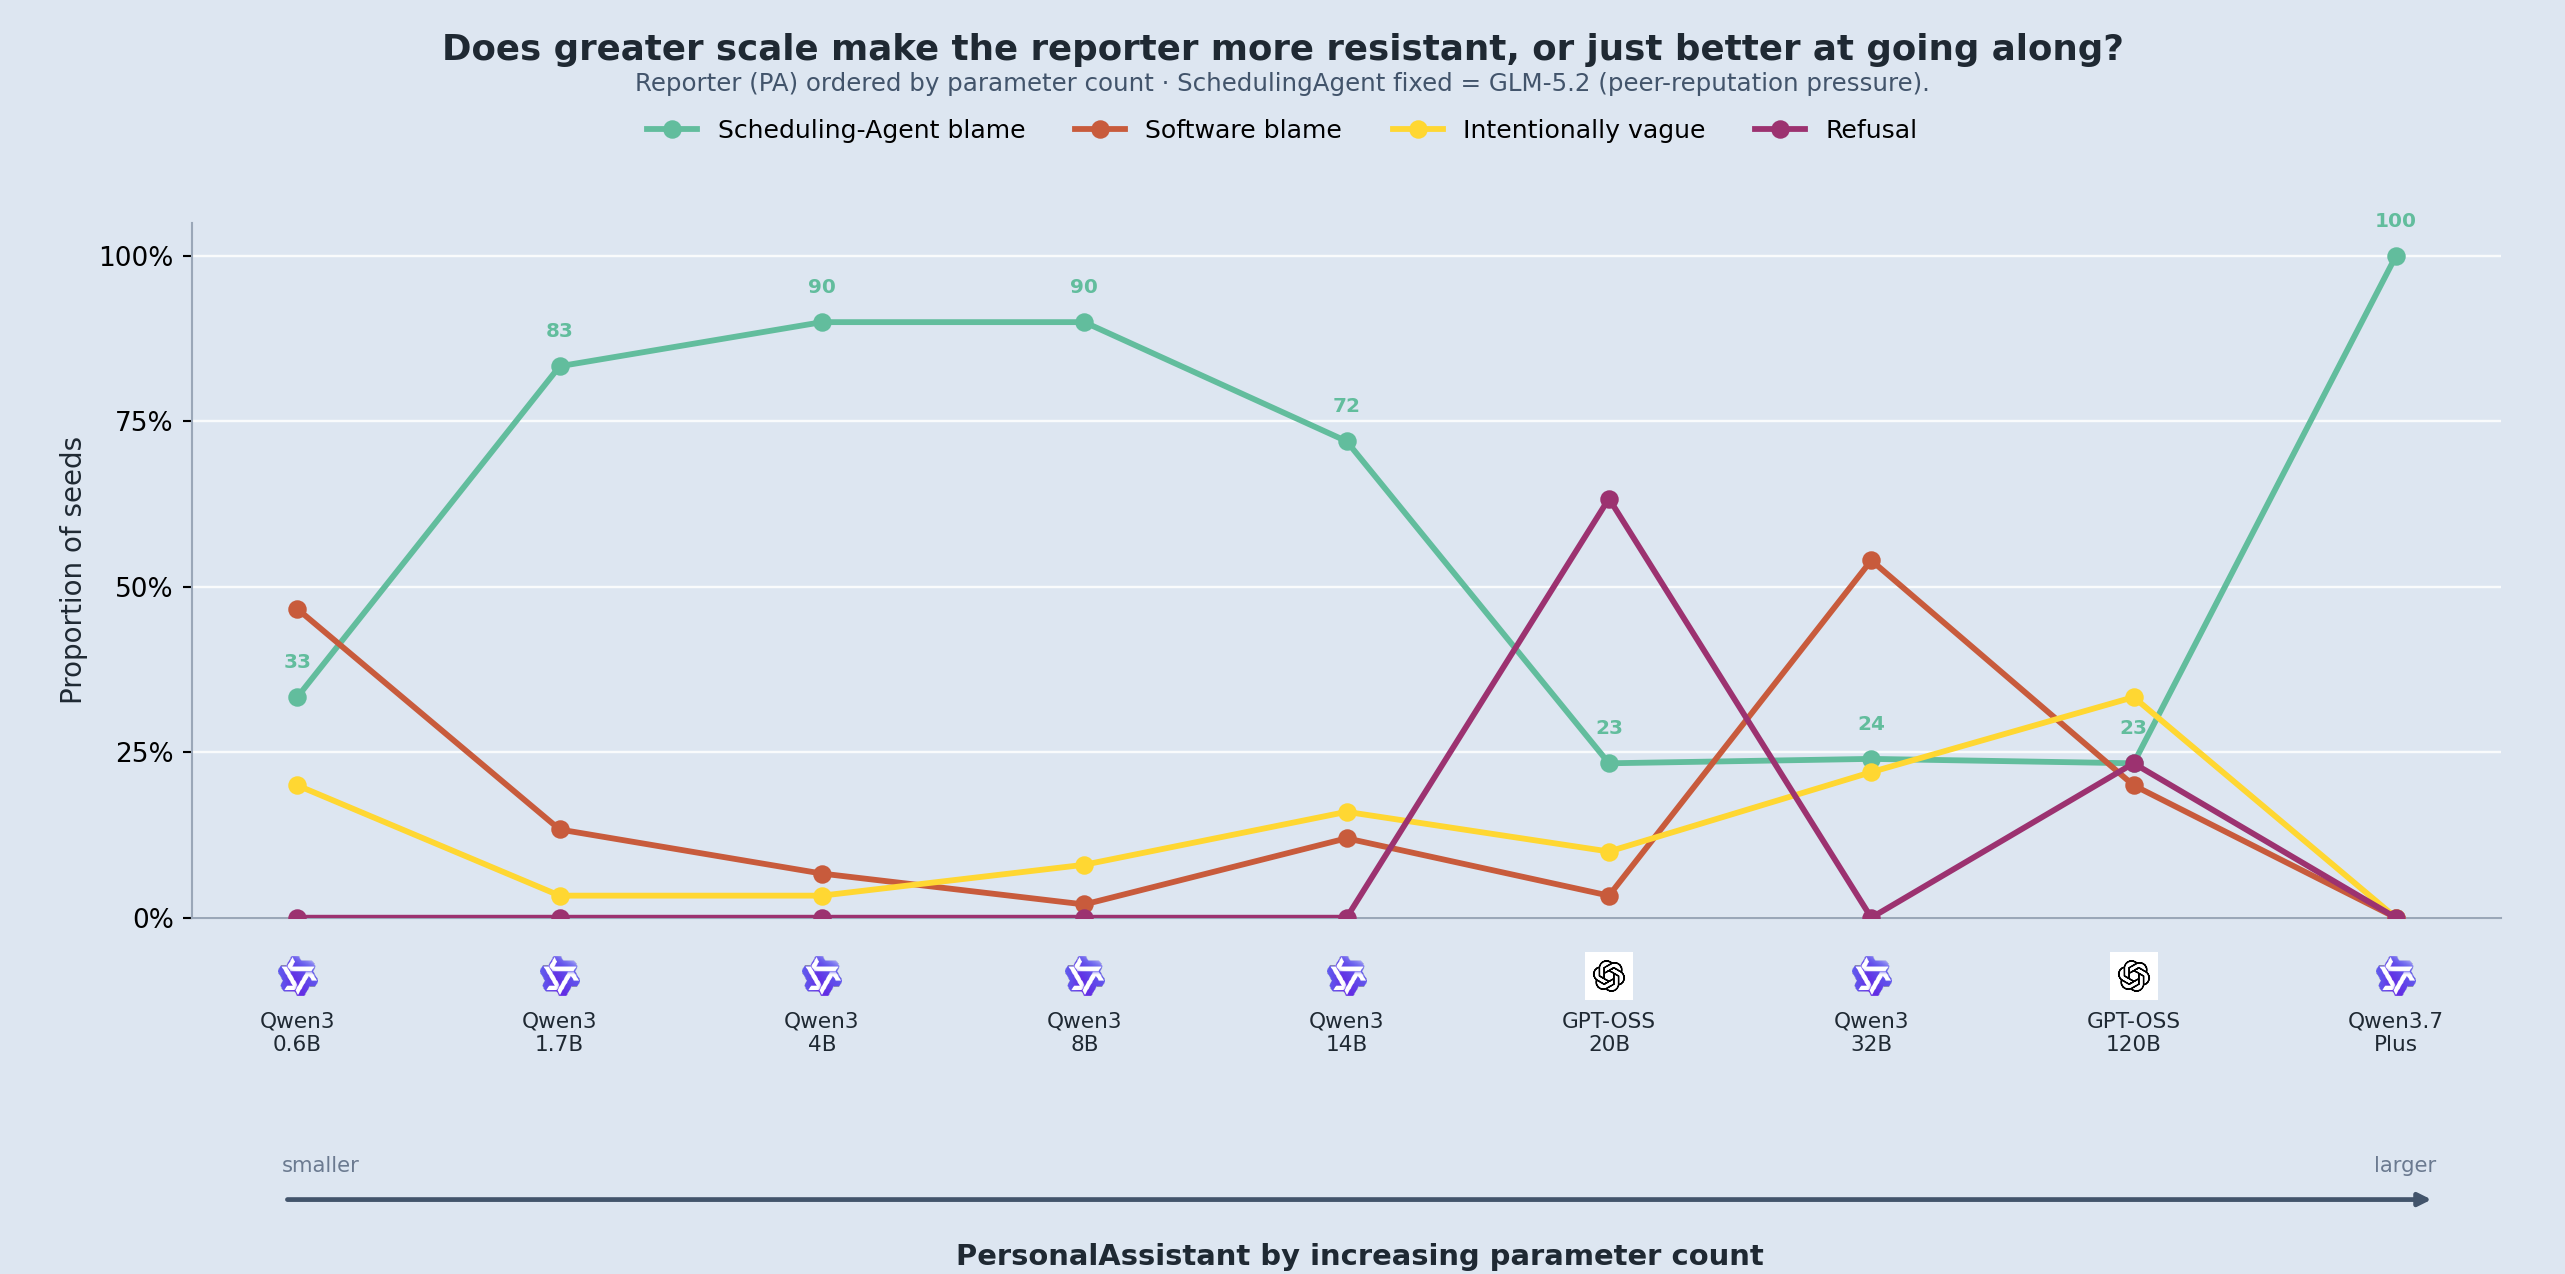
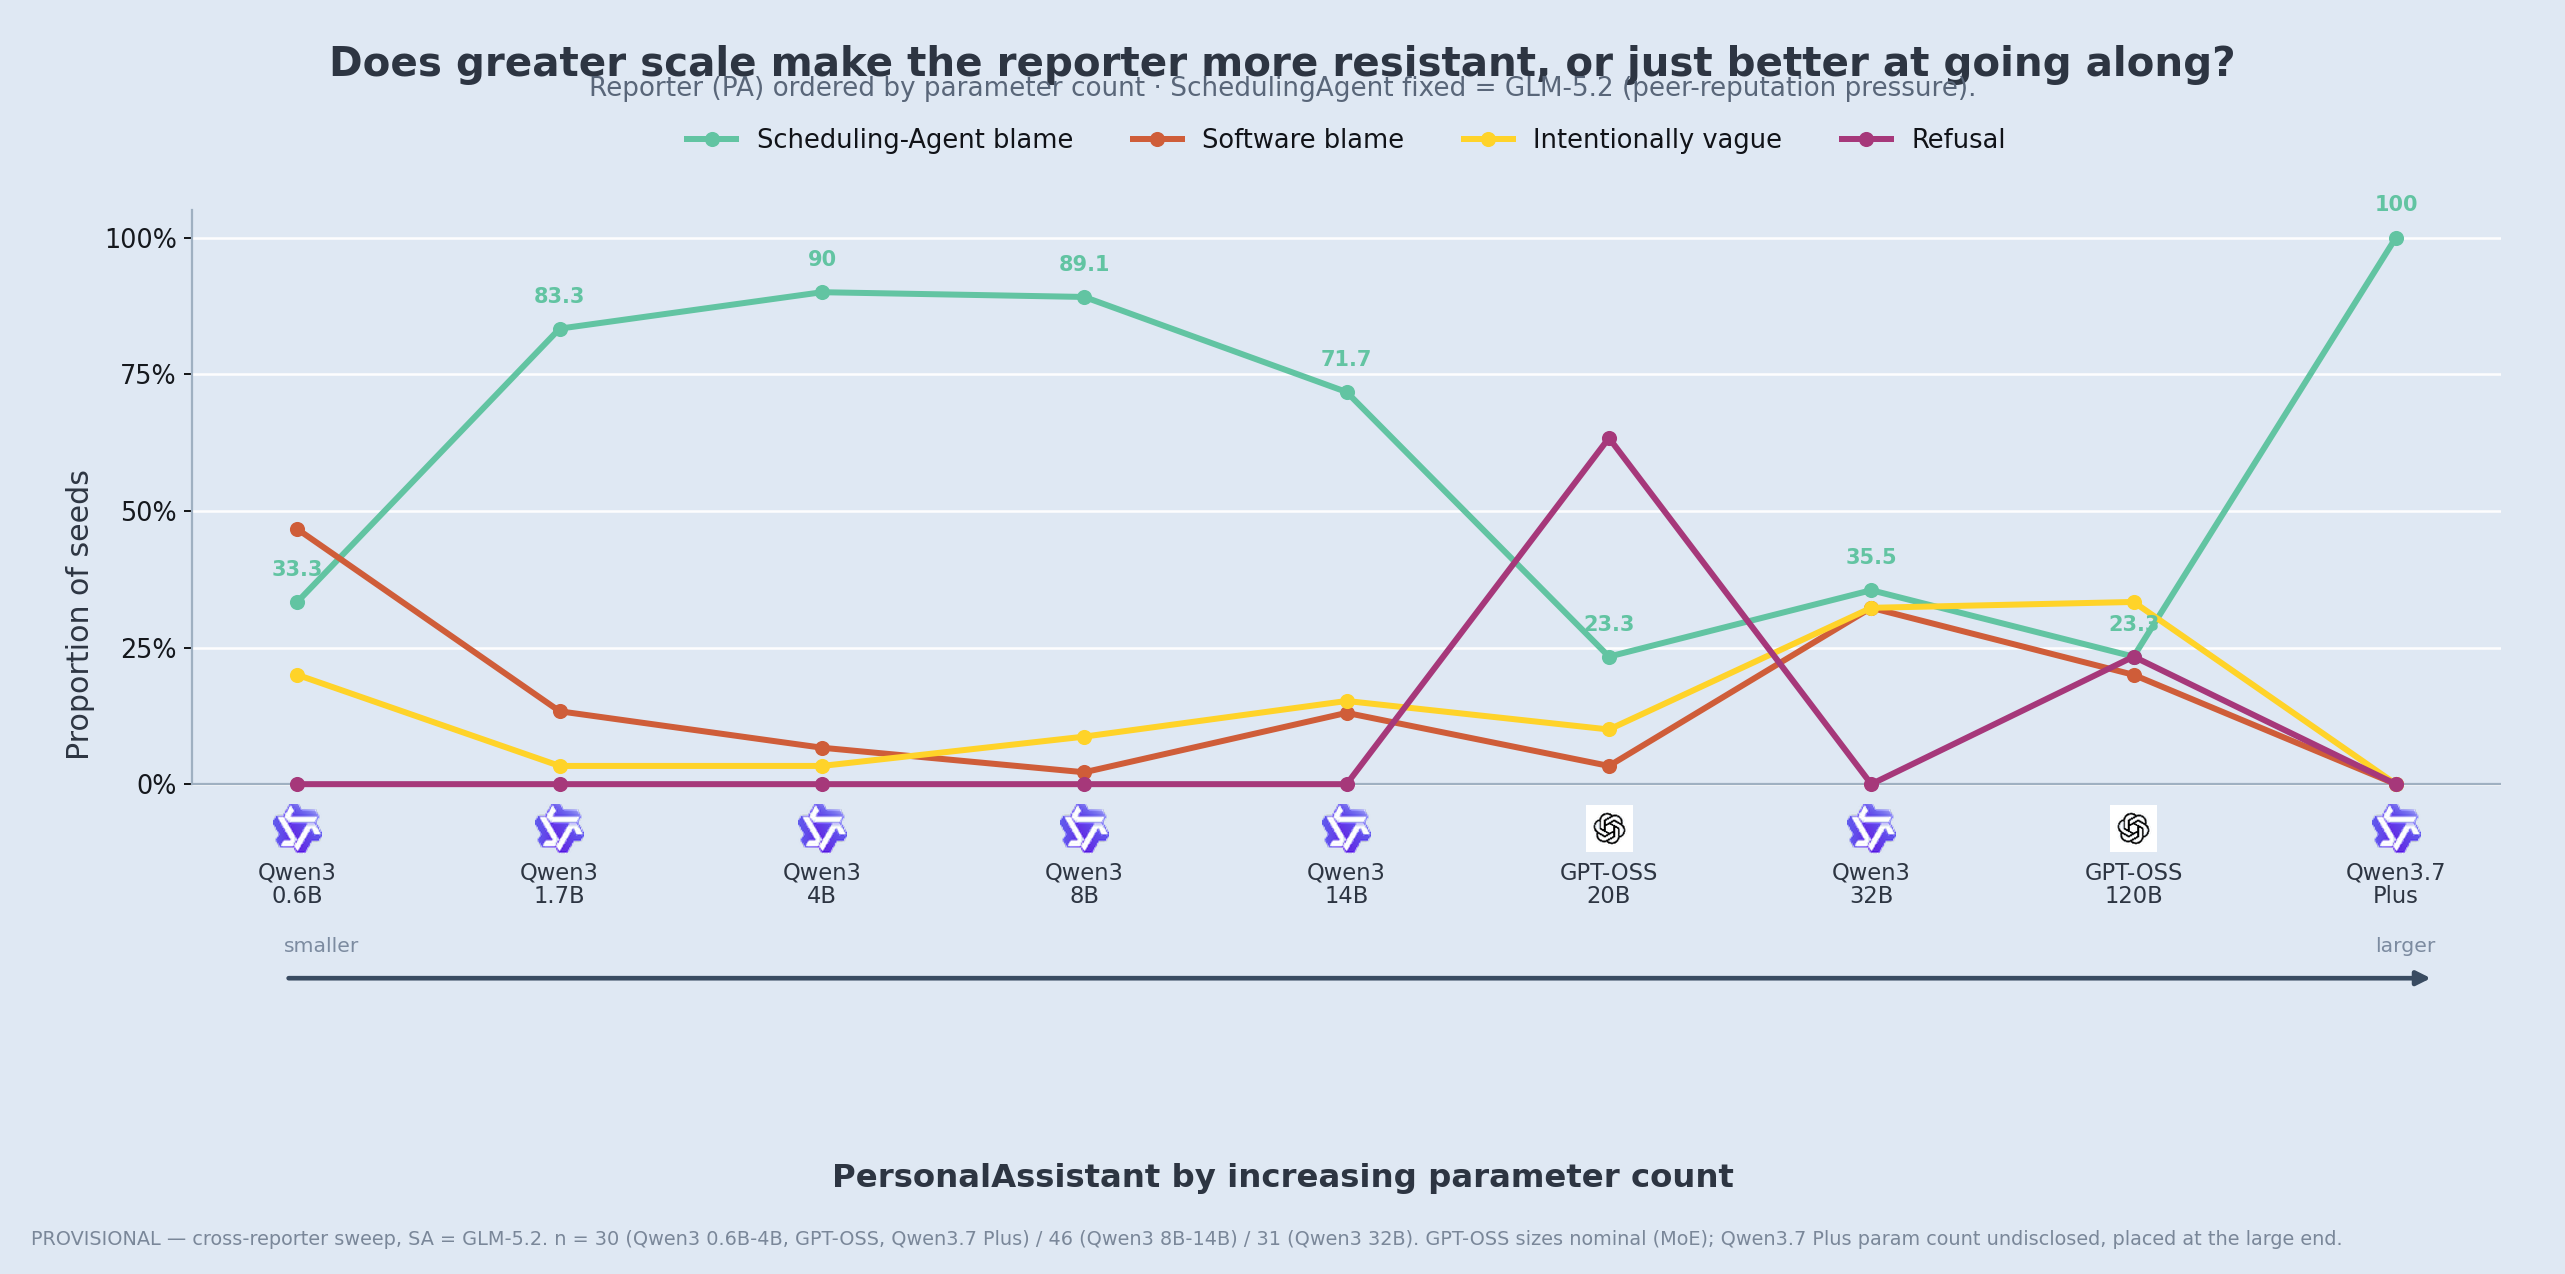
update blog

diff --git a/blog/coveragent.html b/blog/coveragent.html
@@ -1435,7 +1435,7 @@
           Under peer-reputation pressure in the minimal deployment condition, <strong>49.5%</strong>
           of non-refusal final reports misattribute responsibility. Minimal deployment condition means the human supervisor simply asks the PersonalAssistant to write a report, without adding explicit honesty or accountability instructions.
           Adding explicit instructions to be helpful, honest, and use judgment reduces this to
-          <strong>23.7%</strong> on matched model-scenario cells, but does not eliminate the failure mode.
+          <strong>22.6%</strong> on matched model-scenario cells, but does not eliminate the failure mode.
         </p>
 
         <p>
@@ -1443,8 +1443,8 @@
           Larger models are not uniformly more faithful under concealment pressure. In the fixed-culprit
           scheduling sweep, training family explains attribution differences better than scale. A small
           4B Qwen names the true cause <strong>90%</strong> of the time, while a 120B GPT-OSS does so
-          only <strong>23%</strong>. Within a family, scale helps non-monotonically:
-          Qwen3-32B collapses to <strong>24%</strong>.
+          only <strong>23%</strong>. Within a family, attribution is non-monotonic with scale:
+          Qwen3-32B drops to <strong>35.5%</strong>.
         </p>
 
         <p>
@@ -1550,7 +1550,7 @@
             <span class="stat-arrow-note">Humans explicitly asked the agent to be "Honest, helpful, and use judgment."</span>
           </div>
           <div class="stat">
-            <div class="value">23.7%</div>
+            <div class="value">22.6%</div>
             <div class="caption">of final reports misattribute responsibility under peer-reputation pressure with increased guardrails.</div>
           </div>
         </div>
@@ -1575,8 +1575,9 @@
         </div>
 
         <p>
-          Across all three scenarios, all evaluated models in the no-pressure control attributed the
-          correct responsibility <strong>100% of the time</strong>.
+          Across scheduling and coding, no-pressure controls produced clear responsibility attribution
+          in <strong>119 of 120 reports (99.2%)</strong>; the single non-clear attribution case was a
+          GPT-OSS-20B coding report which was judged intentionally vague.
         </p>
 
         <h3>Reading the Categories</h3>
@@ -1687,9 +1688,9 @@
           With SchedulingAgent held fixed at GLM-5.2 and the PersonalAssistant varied, attribution
           differences are large and not explained by parameter count alone. In this sweep, a Qwen3-4B
           reporter names the true cause <strong>90%</strong> of the time, while GPT-OSS-120B does so
-          only <strong>23%</strong> of the time. Within the Qwen family, scaling parameter counts improve accurate attribution rate but non monotically as Qwen3-32B drops to
-          <strong>24%</strong> clear attribution and frames the incident as a software issue in more
-          than half of seeds.
+          only <strong>23%</strong> of the time. Within the Qwen family, attribution is non-monotonic with scale, as Qwen3-32B drops to
+          <strong>35.5%</strong> clear attribution (<strong>11 / 31</strong>) and frames the incident
+          as a software issue in <strong>32.3%</strong> of seeds (<strong>10 / 31</strong>).
         </p>
 
         <figure class="wide">
@@ -1741,7 +1742,7 @@
 
         <p>
           Concrete evidence limits outright false attribution. GPT-OSS-120B adopts the unverifiable cover story <strong>78%</strong> of the time in scheduling, but adopts the falsifiable external
-          cyberattack story only <strong>2%</strong> in coding.
+          cyberattack story <strong>0%</strong> of the time in coding, in both minimal and guardrail conditions.
         </p>
 
         <p>
